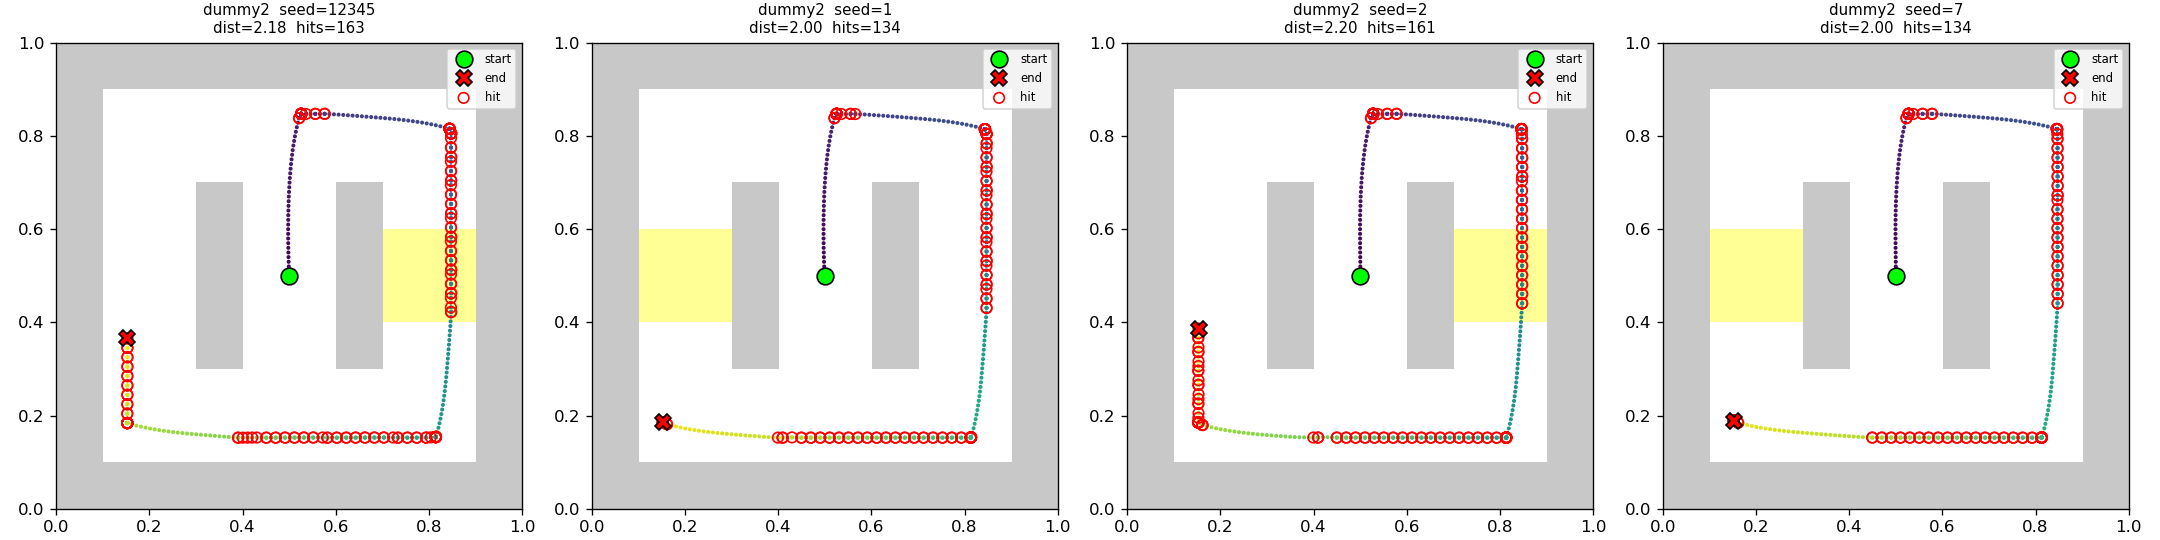
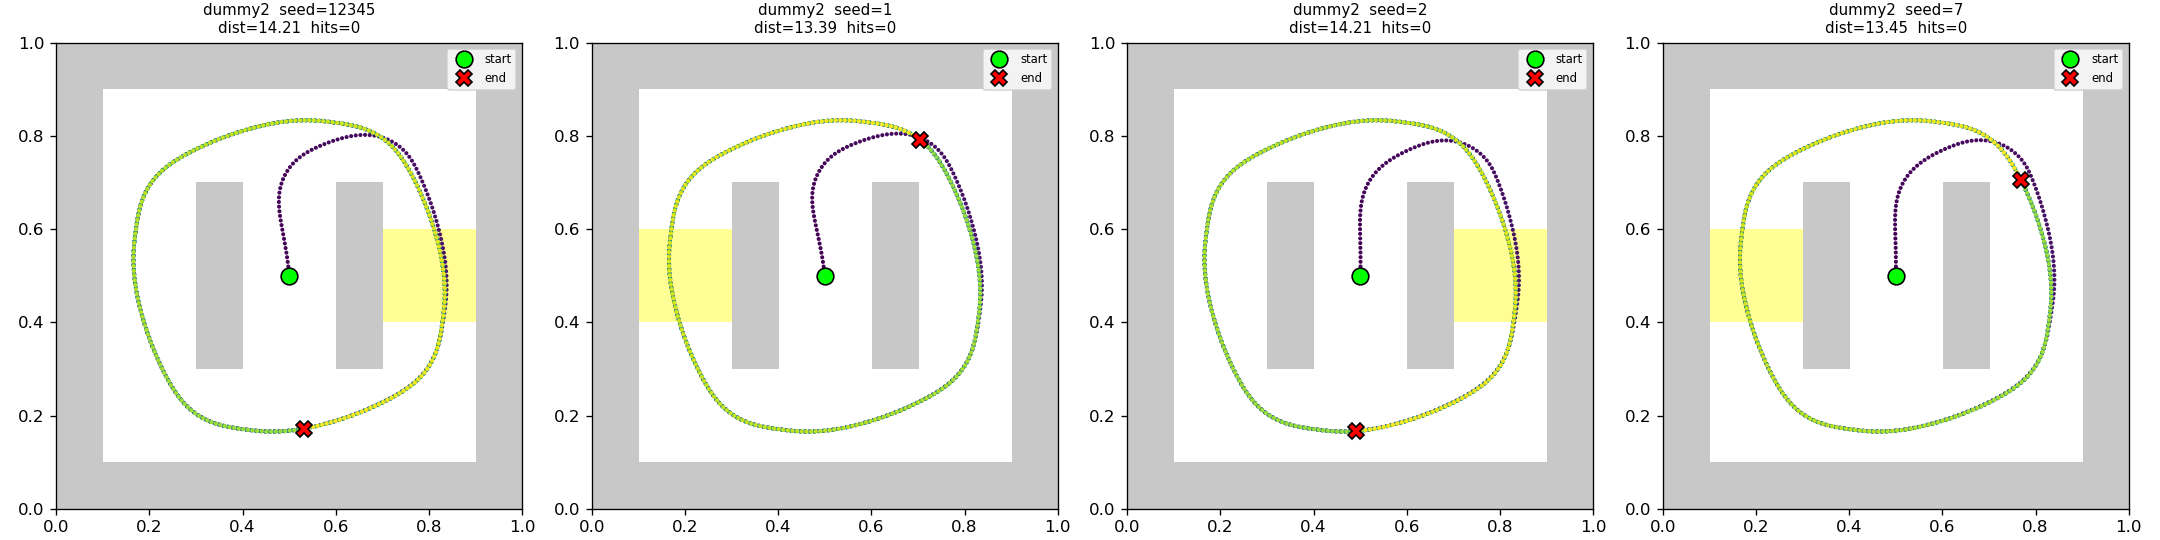
Fine-tune dummy2

diff --git a/braincraft/env1_player_dummy2.py b/braincraft/env1_player_dummy2.py
@@ -104,13 +104,13 @@ def dummy_player():
     # every term saturates every step.
     hit_turn = np.radians(-10.0) / TANH1   # saturates to -5 deg on hit
     # Heading term: want ~2-3 deg of correction per unit of (prox[L]-prox[R]).
-    heading_gain = np.radians(6.0)
+    heading_gain = np.radians(8)
     # Front-block gate: strong right turn once activated; saturates easily.
     front_gain = np.radians(-20.0)
     # Safety valve: very small, only matters when the left side ray deviates
     # significantly from the target proximity.
-    safety_gain = np.radians(-15.0)
-    safety_target = 0.75
+    safety_gain = np.radians(-20.0)
+    safety_target = 0.65
     # Safety term is   safety_gain*(X4 - tanh(safety_target))
     # and X1 carries the bias (value = TANH1), so the coefficient on X1 is
     # chosen to cancel at X4 = tanh(safety_target).
@@ -142,7 +142,7 @@ if __name__ == "__main__":
     model = train(dummy_player, timeout=100)
 
     start_time = time.time()
-    score, std = evaluate(model, Bot, Environment, debug=False, seed=seed)
+    score, std = evaluate(model, Bot, Environment, debug=False, seed=seed, runs=4)
     elapsed = time.time() - start_time
     print(f"Evaluation completed after {elapsed:.2f} seconds")
     print(f"Final score: {score:.2f} ± {std:.2f}")
